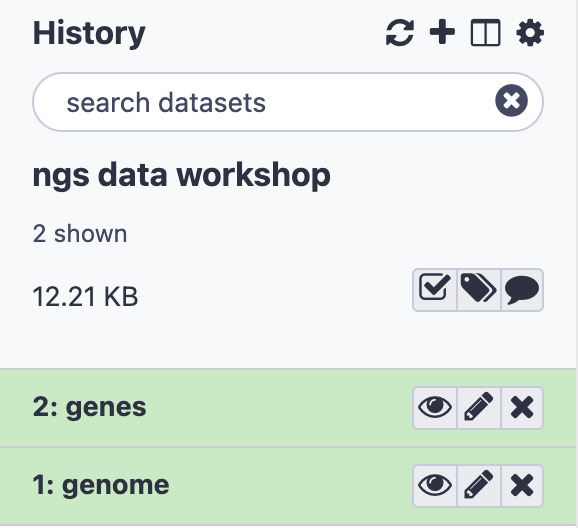
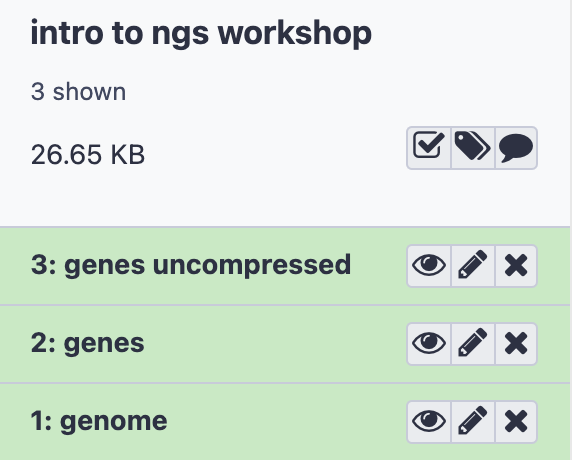
push

diff --git a/lessons/01_Obtain_Data_shared_library.md b/lessons/01_Obtain_Data_shared_library.md
@@ -30,86 +30,68 @@ The [US National Center for Biotechnology Information](https://www.ncbi.nlm.nih.
 Our dataset is a SARS-CoV-2 Next Generation Sequencing sample. In this section we'll obtain our reference data and our NGS reads in preparation for alignment.
 
 
-### Import the SARS-CoV2 genome and gene annotation from NCBI
-- On the left hand side tool panel, click the **Upload icon**
+### Import the SARS-CoV2 genome and gene annotation from a Shared Data library on our server
+- On the top menu bar, click **Shared Data** and select **Data Libraries**
+- Select **sars-cov-2 genome and annotation**
+- Select both files by checking the box next to Name
 
-<img src="../img/data/upload.png" width="200">
+<p align="center">
+<img src="../img/data/select_both.png" width="300">
+</p>
 
-- Click **Paste/Fetch data**
+- Just under the top menu bar, next to the search bar, click **Export to History** and select **As Datasets**
+- In the **Import into History** keep the current Selected History and click **Import**
+- Click on **Galaxy Tufts** on the top left to go back to the main panel
 
-- Paste the following URLs in the grey box:
-
-```
-https://ftp.ncbi.nlm.nih.gov/genomes/all/GCF/009/858/895/GCF_009858895.2_ASM985889v3/GCF_009858895.2_ASM985889v3_genomic.fna.gz
-https://ftp.ncbi.nlm.nih.gov/genomes/all/GCF/009/858/895/GCF_009858895.2_ASM985889v3/GCF_009858895.2_ASM985889v3_genomic.gff.gz
-```
-
-- This is what you should see:
-
-<img src="../img/data/upload_final.png" width="700">
-
-- Click **Start** followed by **Close**
-
-- Two jobs will appear in the History, Grey (pending) -> Orange (running) -> Green (complete).
-
-- Rename the genome and give the file the correct Datatype. A datatype in Galaxy determines how tools will handle Datasets.
-  - On the green box for the file ending in fna.gz, click on the **pencil icon**
-  - replacing the URL in the name with "genome"
-  - clicking **Save**
-  - Click on the **Datatypes** tab, and under **New Type** type fasta (Note: careful not to select the datatype fasta.gz)
-  - Click **Change Datatype**
-
-- Rename the genes and give the file the correct Datatype
-  - On the green box for the file ending in gff.gz, click on the **pencil icon**
-  - Replacing the URL in the name with "genes"
-  - clicking **Save**
-  - Click on the **Datatypes** tab, and under **New Type** type gff3 and select it from the dropdown menu (Note: careful not to select the datatype gff3.gz)
-  - Click **Change Datatype**
-
-- Here is what you should see in your History
-
-<img src="../img/data/history_1.png" width="200">
-
+You’ll see two datasets in your history. 
+<p align="center">
+<img src="../img/data/import_from_shared.png" width="200">
+</p>
 
 ### Fasta Format
-The virus genome is in Fasta format.
-Fasta format has two parts, a sequence identifier preceeded by a ">" symbol, followed by the sequence on subsequent lines.
-You can see a preview of it by clicking on the **genome** dataset in the History panel.
+The virus genome is in gzipped fasta format with the extension **fna.gz**. Fasta format has two parts, a sequence identifier preceeded by a ">" symbol, followed by the sequence on subsequent lines. You can see a preview of it by clicking on the **GCF_009858895.2_ASM985889v3_genomic.fna.gz** dataset in the History panel.
 
+<p align="center">
 <img src="../img/data/genome_view_2.png" width="900">
+</p>
 
 ### GFF Format
 The Generic Feature Format (GFF) file tells us where features such as genes and exons are located in the reference genome.
-To preview the GFF file, click on the  <img src="../img/eye.png" width="15"> on the **genes** dataset.
+To preview the GFF file, click on the  <img src="../img/eye.png" width="15"> on the **GCF_009858895.2_ASM985889v3_genomic.gff** dataset.
 Note that we must always be sure that our gene information and genome come from the same source.
-
+<p align="center">
 <img src="../img/data/gff_view.png" width="900">
-
+</p>
 
 
 ## Step 3: Import NGS sequencing data from Sequence Read Archive
 
 We are interested in obtaining reads from the sample [Viral genomic RNA sequencing of a B.1.617.2/Delta isolate; Severe acute respiratory syndrome coronavirus 2; RNA-Seq](https://www.ncbi.nlm.nih.gov/sra/?term=SRR15607266)
-
+<p align="center">
 <img src="../img/data/srr.png" width="900">
+</p>
 
 ### Download Reads
 
 We'll download the data from Sequence Read Archive using a Galaxy tool called **SRA Toolkit**.
 
-- In the Tool panel (left hand side) search box, search for a tool called "fasterq" and click on the tool under **SRA toolkit** called **Faster Download and Extract Reads in FASTQ**
+- In the Tool panel (left hand side) search box, type in "fasterq" and click on the tool under **SRA toolkit** called **Faster Download and Extract Reads in FASTQ**
 - Under **Accession** enter `SRR15607266`
 - Click **Execute**
 
+<p align="center">
 <img src="../img/data/fasterq.png" width="500">
+</p>
 
 - The result will be four items in History
   - Log: information about the total reads downloaded
   - Other data: Empty, but can contain experiment metadata
   - Single-end data: Empty, since this experiment has no single-end files
   - Paired-end data: Two files, containing the forward and reverse reads for this sample 
-  
+
+<p align="center">
 <img src="../img/data/fasterq_result.png" width="200">
+</p>
 
 ### Fastq format
 Fastq format is a way to store both sequence data and information about the quality of each sequenced position.
@@ -141,11 +123,15 @@ Paired end sequencing data will typically be stored as two fastq files, one for 
 
 The symbols we see in the read quality string are an encoding of the quality score:
 
+<p align="center">
 <img src="../img/data/base_qual_0.png" width="500">
+</p>
 
 A quality score is a prediction of the probability of an error in base calling: 
 
+<p align="center">
 <img src="../img/data/base_qual_1.png" width="750">
+</p>
 
 Going back to our read, we can see that for most of our read the quality score is "G" –> "Q" =  38 -> Probability < 1/1000 of an error.
 

diff --git a/lessons/01_Obtain_Data.md b/lessons/01_Obtain_Data.md
@@ -30,39 +30,61 @@ The [US National Center for Biotechnology Information](https://www.ncbi.nlm.nih.
 Our dataset is a SARS-CoV-2 Next Generation Sequencing sample. In this section we'll obtain our reference data and our NGS reads in preparation for alignment.
 
 
-### Import the SARS-CoV2 genome and gene annotation from a Shared Data library on our server
-- On the top menu bar, click **Shared Data** and select **Data Libraries**
-- Select **sars-cov-2 genome and annotation**
-- Select both files by checking the box next to Name
-
+### Import the SARS-CoV2 genome and gene annotation from NCBI
+- On the left hand side tool panel, click the **Upload icon**
 <p align="center">
-<img src="../img/data/select_both.png" width="300">
+<img src="../img/data/upload.png" width="200">
 </p>
+- Click **Paste/Fetch data**
+- Paste the following URLs in the grey box:
 
-- Just under the top menu bar, next to the search bar, click **Export to History** and select **As Datasets**
-- In the **Import into History** keep the current Selected History and click **Import**
-- Click on **Galaxy Tufts** on the top left to go back to the main panel
+```
+https://ftp.ncbi.nlm.nih.gov/genomes/all/GCF/009/858/895/GCF_009858895.2_ASM985889v3/GCF_009858895.2_ASM985889v3_genomic.fna.gz
+https://ftp.ncbi.nlm.nih.gov/genomes/all/GCF/009/858/895/GCF_009858895.2_ASM985889v3/GCF_009858895.2_ASM985889v3_genomic.gff.gz
+```
 
-You’ll see two datasets in your history. 
+- This is what you should see:
 <p align="center">
-<img src="../img/data/import_from_shared.png" width="200">
+<img src="../img/data/upload_final.png" width="700">
+</p>
+- Click **Start** followed by **Close**
+
+- Two jobs will appear in the History, Grey (pending) -> Orange (running) -> Green (complete).
+
+- Rename the genome file
+  - On the green box for the file ending in fna.gz, click on the **pencil icon**
+  - replacing the URL in the name with "genome"
+  - clicking **Save**
+
+- Rename the gene annotation file and decompress
+  - On the green box for the file ending in gff.gz, click on the **pencil icon**
+  - Replacing the URL in the name with "genes"
+  - clicking **Save**
+  - Click on the **Convert** tab, and under **Name** select **Convert compressed file to uncompressed**
+  - Click **Convert Datatype** to generate a new dataset with the uncompressed file
+
+- Here is what you should see in your History
+<p align="center">
+<img src="../img/data/history_1.png" width="200">
 </p>
 
 ### Fasta Format
-The virus genome is in gzipped fasta format with the extension **fna.gz**. Fasta format has two parts, a sequence identifier preceeded by a ">" symbol, followed by the sequence on subsequent lines. You can see a preview of it by clicking on the **GCF_009858895.2_ASM985889v3_genomic.fna.gz** dataset in the History panel.
-
+The virus genome is in gzipped fasta format with the extension **fna.gz**.
+Fasta format has two parts, a sequence identifier preceeded by a ">" symbol, followed by the sequence on subsequent lines.
+You can see a preview of it by clicking on the **genome** dataset in the History panel.
 <p align="center">
 <img src="../img/data/genome_view_2.png" width="900">
 </p>
 
+
 ### GFF Format
 The Generic Feature Format (GFF) file tells us where features such as genes and exons are located in the reference genome.
-To preview the GFF file, click on the  <img src="../img/eye.png" width="15"> on the **GCF_009858895.2_ASM985889v3_genomic.gff** dataset.
+To preview the GFF file, click on the  <img src="../img/eye.png" width="15"> on the **genes uncompressed** dataset.
 Note that we must always be sure that our gene information and genome come from the same source.
+
 <p align="center">
 <img src="../img/data/gff_view.png" width="900">
 </p>
-
 
 ## Step 3: Import NGS sequencing data from Sequence Read Archive
 
@@ -75,7 +97,7 @@ We are interested in obtaining reads from the sample [Viral genomic RNA sequenci
 
 We'll download the data from Sequence Read Archive using a Galaxy tool called **SRA Toolkit**.
 
-- In the Tool panel (left hand side) search box, type in "fasterq" and click on the tool under **SRA toolkit** called **Faster Download and Extract Reads in FASTQ**
+- In the Tool panel (left hand side) search box, search for a tool called "fasterq" and click on the tool under **SRA toolkit** called **Faster Download and Extract Reads in FASTQ**
 - Under **Accession** enter `SRR15607266`
 - Click **Execute**
 
@@ -88,19 +110,15 @@ We'll download the data from Sequence Read Archive using a Galaxy tool called **
   - Other data: Empty, but can contain experiment metadata
   - Single-end data: Empty, since this experiment has no single-end files
   - Paired-end data: Two files, containing the forward and reverse reads for this sample 
-
-<p align="center">
+  
 <img src="../img/data/fasterq_result.png" width="200">
-</p>
 
 ### Fastq format
 Fastq format is a way to store both sequence data and information about the quality of each sequenced position.
 
 - To view:
   - Click on the list **Pair-end data (fasterq-dump)** and the sublist **SRR15607266** to expand the sample, you’ll see 2 sequencing files **forward** and **reverse**
-
   - Click on the <img src="../img/eye.png" width="15"> on the first sequence file **forward** and look at the fastq reads
-
   - The paired end data contains two files, forward and reverse reads for our sample.
 
 
@@ -123,15 +141,11 @@ Paired end sequencing data will typically be stored as two fastq files, one for 
 
 The symbols we see in the read quality string are an encoding of the quality score:
 
-<p align="center">
 <img src="../img/data/base_qual_0.png" width="500">
-</p>
 
 A quality score is a prediction of the probability of an error in base calling: 
 
-<p align="center">
 <img src="../img/data/base_qual_1.png" width="750">
-</p>
 
 Going back to our read, we can see that for most of our read the quality score is "G" –> "Q" =  38 -> Probability < 1/1000 of an error.
 

diff --git a/lessons/03_Read_alignment.md b/lessons/03_Read_alignment.md
@@ -17,11 +17,12 @@ BWA builds an index of the reference sequence.
 ### To run BWA:
 - In the Tools panel search bar, type **BWA** and under the **Mapping** section, select **Map with BWA**
 - Under **Will you select a reference genome from your history or use a built-in index?** select **Use a genome from history and build index**.
-- Under **Use the following dataset as the reference sequence** select **1:genome (as fasta)**
+- Under **Use the following dataset as the reference sequence** select **1: genome (as fasta)**
 - Under **Select input type** select **Paired fastq collection** 
-- Under **Select a paired collection** select **3: Pair-end data (fasterq-dump)**
+- Under **Select a paired collection** select **4: Pair-end data (fasterq-dump)**
 - Check that your tool is configured as below
 - Click **Execute**
+- Once the job is completed, you can preview the resulting SAM file by clicking the <img src="../img/eye.png" width="15"> icon in the completed **Map with BWA** dataset.
 
 <p align="center">
 <img src="../img/align/bwa.png" width="700">
@@ -29,8 +30,6 @@ BWA builds an index of the reference sequence.
 <p align="center">
 Configuration of BWA
 </p>
-
-- Once the job is completed, you can preview the resulting SAM file by clicking the <img src="../img/eye.png" width="15"> icon in the completed **Map with BWA** dataset.
 
 ### SAM format
 BWA produces a BAM file, which is the compressed binary version of a Sequence Alignment Map (SAM). A SAM file consists of a Header section and an Alignment section. The Header section gives details about the file format and reference sequenced used in alignment, and the Alignment section gives information about each read that was aligned.
@@ -49,7 +48,7 @@ Before we view our alignment, we'll downsample our BAM file to contain only a fr
 
 - In the Tool panel search bar, type "downsample"
 - Under **Picard**, select **Downsample SAM/BAM**
-- In the Main panel, under **Select SAM/BAM dataset or dataset collection** click the folder icon <img src="../img/download.png" width="15"> and select **15: Map with BWA on collection 3**
+- In the Main panel, under **Select SAM/BAM dataset or dataset collection** click the folder icon <img src="../img/download.png" width="15"> and select **Map with BWA on collection 3**
 - Under **Probability (between 0 and 1) that any given read will be kept** type 0.1 and press enter
 - Click **Execute**
 
@@ -72,16 +71,33 @@ JBrowse is a convenient tool that allows viewing of alignments, genomes and gene
   - Scroll down and click **Execute**.
 
 ### Open JBrowse viewer
-  - Once the job is complete (green) click the <img src="../img/eye.png" width="15"> icon on the JBrowse dataset.
-  - In the **Available Tracks** panel select **genes**.
-
+- Once the job is complete (green) click the <img src="../img/eye.png" width="15"> icon on the JBrowse dataset.
+- In the **Available Tracks** panel select **genes uncompressed**.
+<p align="center">
 <img src="../img/align/available_tracks.png" width="200">
+</p>
+- In the center panel, you will see genome and gene features. We'll click and drag on the Genome coordinates bar in order to zoom in on the S protein region indicated below.
+<p align="center">
+<img src="../img/align/view_1.png" width="1000">
+</p>
+- One can also type exact coordinates into the search bar. After the colon, type 22,991 and hit enter.
+<p align="center">
+<img src="../img/align/view_2.png" width="1000">
+</p>
+- This shows us now a close up of our reference sequence, both forward and reverse, as well as three reading frames.
+- This region contains one of the 4 SNP that differentiate the delta from the alpha variant (T478K). To see if this sample contains the SNP, select the two remaining tracks 
+  - **SRR15607266** 
+  - **SRR15607266 - SNPs/Coverage**
+- We should see one variant represented both in the aligned reads as well as the coverage track.
+<p align="center">
+<img src="../img/align/view_3.png" width="1000">
+</p>
 
-- We'll zoom in on one gene **MYC**. To do this, click on the search bar to the left of the **Go** button and type `chr8:127735434-127742951` 
-- The bam tracks will show the reads that align to the region for each sample. 
-- The color will show whether the read aligns to the + or –strand and grey lines show splice regions where a read spans an intron. 
-The gene track at the bottom called **hg38_genes.bed** will show 6 features of EGR1, by clicking on them you will be able to see the different feature types (exon, CDS, start_codon, stop_codon).
+- The **SRR15607266 - SNPs/Coverage** track plots the number of reads aligned at each position, and additionally shows SNP that are present in >20% of the aligned reads.
+- The **SRR15607266** shows each aligned read, coloring forward and reverse reads in blue and red, respectively, and indicating mismatches with the reference genome. Information about individual reads is available by clicking on the read.
 
-<img src="../img/jbrowse_myc.png" width="900">
+- We can check other positions to confirm that we have a delta variant sample:
+  -P681R: 23,606 
+  -L452R: 22,919
 
 [Previous: Process Raw Reads](02_Process_raw_reads.md)

diff --git a/lessons/02_Process_raw_reads.md b/lessons/02_Process_raw_reads.md
@@ -1,6 +1,8 @@
 # Perform Quality Control on Raw Reads
 
-Next Generation Sequencing can produce a large number of reads in each experiment, giving low-cost and in-depth information about the underlying RNA or DNA sample. However, every platform will produce errors (incorrect nucleotides in the sequence). Hence, quality control is an important step in data analysis. The following steps will walk you through how to run the tools. In each step certain parameters are set. If a parameter option appears on the screen but this tutorial doesn't mention how to set it, leave it at the default. 
+Next Generation Sequencing can produce a large number of reads in each experiment, giving low-cost and in-depth information about the underlying RNA or DNA sample. However, every platform will produce errors (incorrect nucleotides in the sequence). Hence, quality control is an important step in data analysis. 
+
+Note: The following steps will walk you through how to run the tools. In each step certain parameters are set. If a parameter option appears on the screen but this tutorial doesn't mention how to set it, leave it at the default. 
 
 ## Step 1: FastQC
 
